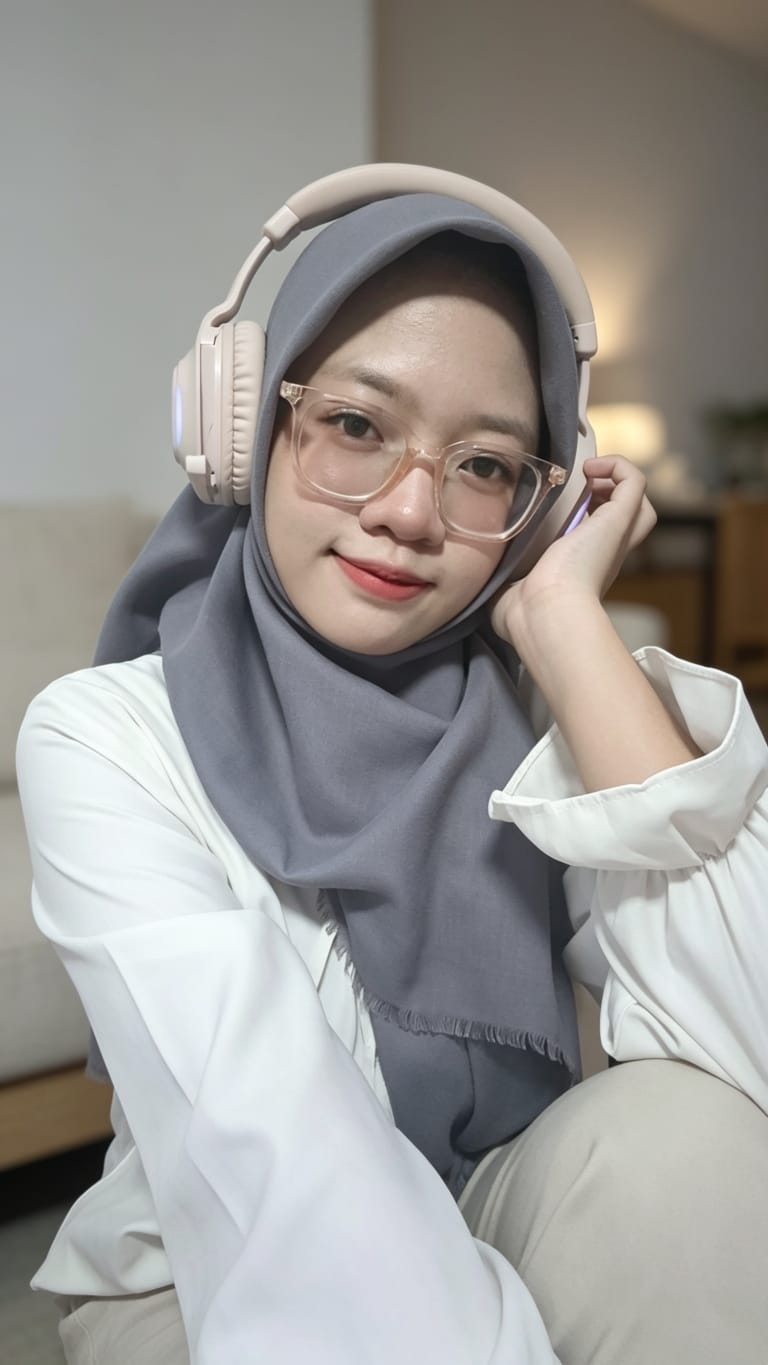
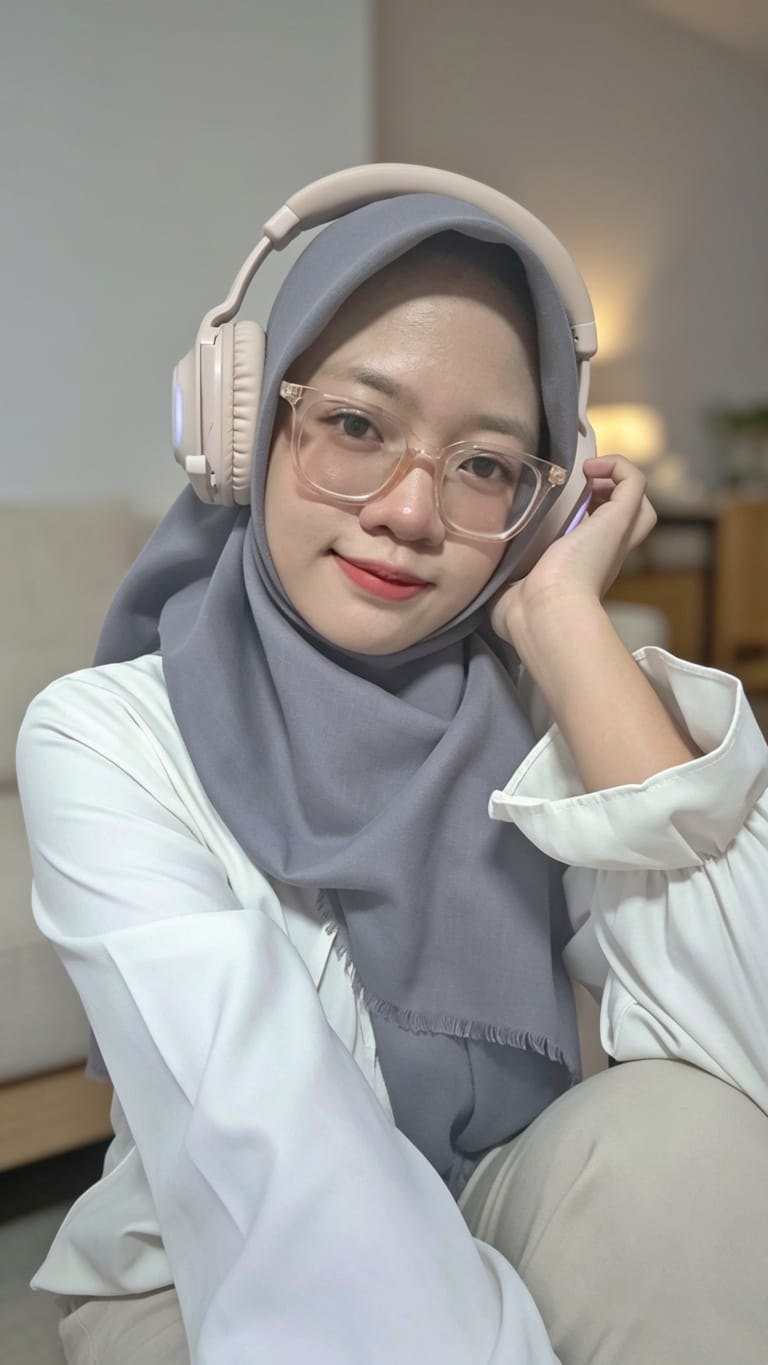
UPDATE NEW PORTO

diff --git a/index.html b/index.html
@@ -87,9 +87,14 @@
                 </div>
 
                 <div class="hero-actions">
-                    <a href="#projects" class="btn btn-primary filter-scroll-btn" data-target-filter="graphic"><i class="fa-solid fa-palette"></i> Portfolio Desain</a>
-                    <a href="#projects" class="btn btn-secondary filter-scroll-btn" data-target-filter="animation"><i class="fa-solid fa-video"></i> Animasi &amp; Videografi</a>
-                    <a href="https://yeflou.github.io/allporto.html" target="_blank" rel="noopener" class="btn btn-outline"><i class="fa-solid fa-image"></i> Portfolio Gambar <i class="fa-solid fa-arrow-up-right-from-square" style="font-size: 0.8rem; margin-left: 4px;"></i></a>
+                    <a href="#projects" class="btn btn-primary filter-scroll-btn" data-target-filter="graphic"><i
+                            class="fa-solid fa-palette"></i> Portfolio Desain</a>
+                    <a href="#projects" class="btn btn-secondary filter-scroll-btn" data-target-filter="animation"><i
+                            class="fa-solid fa-video"></i> Animasi &amp; Videografi</a>
+                    <a href="https://yeflou.github.io/allporto.html" target="_blank" rel="noopener"
+                        class="btn btn-outline"><i class="fa-solid fa-image"></i> Portfolio Gambar <i
+                            class="fa-solid fa-arrow-up-right-from-square"
+                            style="font-size: 0.8rem; margin-left: 4px;"></i></a>
                 </div>
 
                 <div class="hero-cv-action">
@@ -166,7 +171,8 @@
                 </div>
 
                 <div class="projects-grid">
-                    <div class="project-card" data-category="graphic" data-year="2024" data-featured="true" data-order="1">
+                    <div class="project-card" data-category="graphic" data-year="2024" data-featured="true"
+                        data-order="1">
                         <div class="project-img-container">
                             <img src="assets/desainkkn.png" alt="Desain Atribut KKN" class="project-img">
                         </div>
@@ -186,15 +192,16 @@
                                 <span>CorelDRAW</span><span>Photoshop</span>
                             </div>
                             <div class="project-links">
-                                <a href="https://www.Drive.net" class="btn btn-primary btn-sm btn-block-link"
-                                    target="_blank" rel="noopener">
+                                <a href="https://drive.google.com/drive/u/0/folders/1RBhmhu12I0WEW6JnwQndfE5LF_aNPVAr"
+                                    class="btn btn-primary btn-sm btn-block-link" target="_blank" rel="noopener">
                                     <i class="fa-brands fa-Drive"></i> Lihat di Drive
                                 </a>
                             </div>
                         </div>
                     </div>
                     <!-- Proyek: Redraw Logo Kober Mie -->
-                    <div class="project-card" data-category="graphic" data-year="2026" data-featured="true" data-order="3">
+                    <div class="project-card" data-category="graphic" data-year="2026" data-featured="true"
+                        data-order="4">
                         <div class="project-img-container">
                             <span class="featured-badge"><i class="fa-solid fa-star"></i> Top Project</span>
                             <img src="assets/redrawlogokobermie.png" alt="Redraw Logo Kober Mie" class="project-img"
@@ -216,8 +223,8 @@
                                 <span>Illustrator</span>
                             </div>
                             <div class="project-links">
-                                <a href="https://drive.google.com" class="btn btn-primary btn-sm btn-block-link"
-                                    target="_blank" rel="noopener">
+                                <a href="https://drive.google.com/file/d/1Pym50DcKbXOv9iTHVe5xYLA7Iz0MUG5w/view?usp=drive_link"
+                                    class="btn btn-primary btn-sm btn-block-link" target="_blank" rel="noopener">
                                     <i class="fa-brands fa-Drive"></i> Lihat di Drive
                                 </a>
                             </div>
@@ -302,7 +309,7 @@
                                 <span>Adobe Illustrator</span>
                             </div>
                             <div class="project-links">
-                                <a href="https://drive.google.com/file/d/1V2nMCQu51WlD8DUS-PfKj9qU5LyI545K/view?usp=sharing"
+                                <a href="https://drive.google.com/file/d/1V2nMCQu51WlD8DUS-PfKj9qU5LyI545K/view?usp=drive_link"
                                     class="btn btn-primary btn-sm btn-block-link" target="_blank" rel="noopener">
                                     <i class="fa-brands fa-Drive"></i> Lihat di Drive
                                 </a>
@@ -369,7 +376,8 @@
                     </div>
 
                     <!-- Proyek 6: Desain Kemasan Runchy -->
-                    <div class="project-card" data-category="graphic" data-year="2024" data-featured="true" data-order="10">
+                    <div class="project-card" data-category="graphic" data-year="2024" data-featured="true"
+                        data-order="11">
                         <div class="project-img-container">
                             <span class="featured-badge"><i class="fa-solid fa-star"></i> Top Project</span>
                             <img src="assets/desainkemasanrunchy.png" alt="Desain Kemasan Runchy" class="project-img">
@@ -399,7 +407,8 @@
                     </div>
 
                     <!-- Proyek 7: Poster Promosi Es Memel -->
-                    <div class="project-card" data-category="graphic" data-year="2024" data-featured="true" data-order="11">
+                    <div class="project-card" data-category="graphic" data-year="2024" data-featured="true"
+                        data-order="12">
                         <div class="project-img-container">
                             <img src="assets/posteresmemel.png" alt="Poster Promosi Es Memel" class="project-img">
                         </div>
@@ -428,7 +437,8 @@
                     </div>
 
                     <!-- Proyek 8: Desain Kaos &amp; T-Shirt Custom -->
-                    <div class="project-card" data-category="graphic" data-year="2024" data-featured="true" data-order="6">
+                    <div class="project-card" data-category="graphic" data-year="2024" data-featured="true"
+                        data-order="7">
                         <div class="project-img-container">
                             <img src="assets/desaintshirt.png" alt="Desain Kaos &amp; T-Shirt Custom"
                                 class="project-img">
@@ -509,9 +519,9 @@
                                 <span>After Effects</span><span>Illustrator</span>
                             </div>
                             <div class="project-links">
-                                <a href="https://www.Drive.net" class="btn btn-primary btn-sm btn-block-link"
-                                    target="_blank" rel="noopener">
-                                    <i class="fa-brands fa-Drive"></i> Lihat di Drive
+                                <a href="https://youtu.be/gRv8--RGrtg?si=8S8OeEegs4b-iSL_"
+                                    class="btn btn-primary btn-sm btn-block-link" target="_blank" rel="noopener">
+                                    <i class="fa-brands fa-Drive"></i> Lihat di Youtube
                                 </a>
                             </div>
                         </div>
@@ -578,7 +588,8 @@
                     </div>
 
                     <!-- Proyek 13: Desain T-Shirt Custom Vol. 2 -->
-                    <div class="project-card" data-category="graphic" data-year="2024" data-featured="true" data-order="7">
+                    <div class="project-card" data-category="graphic" data-year="2024" data-featured="true"
+                        data-order="8">
                         <div class="project-img-container">
                             <img src="assets/desaintshirt2.png" alt="Desain T-Shirt Custom Vol. 2" class="project-img">
                         </div>
@@ -598,8 +609,8 @@
                                 <span>Illustrator</span><span>CorelDRAW</span>
                             </div>
                             <div class="project-links">
-                                <a href="https://www.Drive.net" class="btn btn-primary btn-sm btn-block-link"
-                                    target="_blank" rel="noopener">
+                                <a href="https://drive.google.com/file/d/1ADFFZV9KNlb87fX75bx1nkdDe8gFTNc4/view?usp=drive_link"
+                                    class="btn btn-primary btn-sm btn-block-link" target="_blank" rel="noopener">
                                     <i class="fa-brands fa-Drive"></i> Lihat di Drive
                                 </a>
                             </div>
@@ -697,7 +708,8 @@
                     </div>
 
                     <!-- Proyek 17: Desain Mug Merchandise -->
-                    <div class="project-card" data-category="graphic" data-year="2024" data-featured="true" data-order="14">
+                    <div class="project-card" data-category="graphic" data-year="2024" data-featured="true"
+                        data-order="14">
                         <div class="project-img-container">
                             <img src="assets/desainmug.png" alt="Desain Mug Merchandise" class="project-img">
                         </div>
@@ -717,8 +729,8 @@
                                 <span>Illustrator</span><span>Photoshop</span>
                             </div>
                             <div class="project-links">
-                                <a href="https://www.Drive.net" class="btn btn-primary btn-sm btn-block-link"
-                                    target="_blank" rel="noopener">
+                                <a href="https://drive.google.com/file/d/1FIb3IXv-8cVQSK6MhRvhW-QZD1gweP5-/view?usp=drive_link"
+                                    class="btn btn-primary btn-sm btn-block-link" target="_blank" rel="noopener">
                                     <i class="fa-brands fa-Drive"></i> Lihat di Drive
                                 </a>
                             </div>
@@ -1101,8 +1113,8 @@
                                 <span>Photoshop</span><span>Illustrator</span>
                             </div>
                             <div class="project-links">
-                                <a href="https://www.Drive.net" class="btn btn-primary btn-sm btn-block-link"
-                                    target="_blank" rel="noopener">
+                                <a href="https://drive.google.com/file/d/1V9e7HAsdLIKtgNKKrxWiNCYd2Vx5mk0t/view?usp=drive_link"
+                                    class="btn btn-primary btn-sm btn-block-link" target="_blank" rel="noopener">
                                     <i class="fa-brands fa-Drive"></i> Lihat di Drive
                                 </a>
                             </div>
@@ -1110,7 +1122,8 @@
                     </div>
 
                     <!-- Proyek 31: Desain Kemasan BCOS -->
-                    <div class="project-card" data-category="graphic" data-year="2025" data-featured="true" data-order="13">
+                    <div class="project-card" data-category="graphic" data-year="2025" data-featured="true"
+                        data-order="13">
                         <div class="project-img-container">
                             <span class="featured-badge"><i class="fa-solid fa-star"></i> Top Project</span>
                             <img src="assets/packagingbcos.png" alt="Desain Kemasan BCOS" class="project-img">
@@ -1131,8 +1144,8 @@
                                 <span>Illustrator</span><span>CorelDRAW</span>
                             </div>
                             <div class="project-links">
-                                <a href="https://www.Drive.net" class="btn btn-primary btn-sm btn-block-link"
-                                    target="_blank" rel="noopener">
+                                <a href="https://drive.google.com/file/d/15d9b-7C-6jW9QaaiZkD_oI5-h2XpCvbZ/view?usp=drive_link"
+                                    class="btn btn-primary btn-sm btn-block-link" target="_blank" rel="noopener">
                                     <i class="fa-brands fa-Drive"></i> Lihat di Drive
                                 </a>
                             </div>
@@ -1140,7 +1153,8 @@
                     </div>
 
                     <!-- Proyek 32: Poster Promosi BCOS -->
-                    <div class="project-card" data-category="graphic" data-year="2025" data-featured="true" data-order="4">
+                    <div class="project-card" data-category="graphic" data-year="2025" data-featured="true"
+                        data-order="5">
                         <div class="project-img-container">
                             <span class="featured-badge"><i class="fa-solid fa-star"></i> Top Project</span>
                             <img src="assets/posterbcos.png" alt="Poster Promosi BCOS" class="project-img">
@@ -1161,8 +1175,8 @@
                                 <span>Photoshop</span><span>Illustrator</span>
                             </div>
                             <div class="project-links">
-                                <a href="https://www.Drive.net" class="btn btn-primary btn-sm btn-block-link"
-                                    target="_blank" rel="noopener">
+                                <a href="https://drive.google.com/file/d/1dj25va6sIrhzYDCg1ADpspS1Ozp7vgHT/view?usp=sharing"
+                                    class="btn btn-primary btn-sm btn-block-link" target="_blank" rel="noopener">
                                     <i class="fa-brands fa-Drive"></i> Lihat di Drive
                                 </a>
                             </div>
@@ -1193,8 +1207,7 @@
                                 <span>Figma</span><span>Wireframing</span>
                             </div>
                             <div class="project-links">
-                                <a href="https://drive.google.com" class="btn btn-primary btn-sm btn-block-link"
-                                    target="_blank" rel="noopener">
+                                <a href="" class="btn btn-primary btn-sm btn-block-link" target="_blank" rel="noopener">
                                     <i class="fa-solid fa-link"></i> Lihat Sketsa
                                 </a>
                             </div>
@@ -1202,7 +1215,7 @@
                     </div>
 
                     <!-- Proyek 35: Desain UI Client Portal -->
-                    <div class="project-card" data-category="uiux" data-year="2026" data-featured="true" data-order="5">
+                    <div class="project-card" data-category="uiux" data-year="2026" data-featured="true" data-order="6">
                         <div class="project-img-container">
                             <span class="featured-badge"><i class="fa-solid fa-star"></i> Top Project</span>
                             <img src="assets/uiclient.png" alt="Desain UI Client Portal" class="project-img">
@@ -1223,8 +1236,8 @@
                                 <span>Figma</span><span>UI Design</span>
                             </div>
                             <div class="project-links">
-                                <a href="https://drive.google.com" class="btn btn-primary btn-sm btn-block-link"
-                                    target="_blank" rel="noopener">
+                                <a href="https://www.figma.com/design/riBFmjoEGSAkan39MzHpDt/UI-Client-Porto?t=J0UI2xX5kA122FK0-0"
+                                    class="btn btn-primary btn-sm btn-block-link" target="_blank" rel="noopener">
                                     <i class="fa-solid fa-link"></i> Lihat Detail
                                 </a>
                             </div>
@@ -1410,7 +1423,8 @@
                     </div>
 
                     <!-- Proyek 42: Desain Iklan Sirup Pisang -->
-                    <div class="project-card" data-category="graphic" data-year="2024" data-featured="true" data-order="8">
+                    <div class="project-card" data-category="graphic" data-year="2024" data-featured="true"
+                        data-order="9">
                         <div class="project-img-container">
                             <span class="featured-badge"><i class="fa-solid fa-star"></i> Top Project</span>
                             <img src="assets/iklansiruppisang.png" alt="Desain Iklan Sirup Pisang" class="project-img">
@@ -1423,7 +1437,7 @@
                             <h3 class="project-title">Desain Iklan Sirup Pisang</h3>
                             <div class="project-role-info"
                                 style="margin-bottom: 12px; font-size: 0.9rem; color: var(--text-muted);">
-                                <strong>Role:</strong> Graphic Designer
+                                <strong>Role:</strong> Animator, Voice Over
                             </div>
                             <p class="project-desc">Pembuatan visual poster promosi dan materi branding digital untuk
                                 produk Sirup Pisang tradisional.</p>
@@ -1431,16 +1445,17 @@
                                 <span>Photoshop</span><span>Illustrator</span>
                             </div>
                             <div class="project-links">
-                                <a href="https://www.Drive.net" class="btn btn-primary btn-sm btn-block-link"
-                                    target="_blank" rel="noopener">
-                                    <i class="fa-brands fa-Drive"></i> Lihat di Drive
+                                <a href="https://youtu.be/eVeZNkdIU4g?si=N_RQuFZ6JM4mrNa6"
+                                    class="btn btn-primary btn-sm btn-block-link" target="_blank" rel="noopener">
+                                    <i class="fa-brands fa-youtube"></i> Lihat di youtube
                                 </a>
                             </div>
                         </div>
                     </div>
 
                     <!-- Proyek 43: KKN Desa Cerme Profil Desa -->
-                    <div class="project-card" data-category="graphic" data-year="2024" data-featured="true" data-order="9">
+                    <div class="project-card" data-category="graphic" data-year="2024" data-featured="true"
+                        data-order="10">
                         <div class="project-img-container">
                             <span class="featured-badge"><i class="fa-solid fa-star"></i> Top Project</span>
                             <img src="assets/kkndesacermeprofildesa.png" alt="KKN Desa Cerme Profil Desa"
@@ -1454,7 +1469,7 @@
                             <h3 class="project-title">KKN Desa Cerme Profil Desa</h3>
                             <div class="project-role-info"
                                 style="margin-bottom: 12px; font-size: 0.9rem; color: var(--text-muted);">
-                                <strong>Role:</strong> Graphic Designer & Media
+                                <strong>Role:</strong> Video Editor & Voice Over
                             </div>
                             <p class="project-desc">Desain buku profil desa dan media cetak publikasi program kerja KKN
                                 mahasiswa di Desa Cerme.</p>
@@ -1462,8 +1477,8 @@
                                 <span>Illustrator</span><span>Photoshop</span>
                             </div>
                             <div class="project-links">
-                                <a href="https://www.Drive.net" class="btn btn-primary btn-sm btn-block-link"
-                                    target="_blank" rel="noopener">
+                                <a href="https://youtu.be/iFvc8X8XO_w?si=Oa3hexcejYgaqXe2"
+                                    class="btn btn-primary btn-sm btn-block-link" target="_blank" rel="noopener">
                                     <i class="fa-brands fa-Drive"></i> Lihat di Drive
                                 </a>
                             </div>
@@ -1492,8 +1507,8 @@
                                 <span>Blender</span><span>3D Animation</span>
                             </div>
                             <div class="project-links">
-                                <a href="https://www.Drive.net" class="btn btn-primary btn-sm btn-block-link"
-                                    target="_blank" rel="noopener">
+                                <a href="https://drive.google.com/file/d/1vrOeeG74mOCufDy5C7q4daWcRFdnHiRC/view?usp=drive_link"
+                                    class="btn btn-primary btn-sm btn-block-link" target="_blank" rel="noopener">
                                     <i class="fa-brands fa-Drive"></i> Lihat di Drive
                                 </a>
                             </div>
@@ -1589,7 +1604,8 @@
                     </div>
 
                     <!-- Proyek 48: Instagram Feed KKN Desa Cerme -->
-                    <div class="project-card" data-category="graphic" data-year="2024" data-featured="true" data-order="12">
+                    <div class="project-card" data-category="graphic" data-year="2024" data-featured="true"
+                        data-order="3">
                         <div class="project-img-container">
                             <span class="featured-badge"><i class="fa-solid fa-star"></i> Top Project</span>
                             <img src="assets/igfeedkkndesacerme.png" alt="Instagram Feed KKN Desa Cerme"
@@ -1611,16 +1627,17 @@
                                 <span>Canva</span><span>Illustrator</span>
                             </div>
                             <div class="project-links">
-                                <a href="https://www.Drive.net" class="btn btn-primary btn-sm btn-block-link"
-                                    target="_blank" rel="noopener">
-                                    <i class="fa-brands fa-Drive"></i> Lihat di Drive
+                                <a href="https://www.instagram.com/kknt.udb.cerme?igsh=MW5nN3N6anl6eTJhbg=="
+                                    class="btn btn-primary btn-sm btn-block-link" target="_blank" rel="noopener">
+                                    <i class="fa-brands fa-Drive"></i> Lihat di iNSTAGRAM
                                 </a>
                             </div>
                         </div>
                     </div>
 
                     <!-- Proyek 49: Instagram Feed Six Pro -->
-                    <div class="project-card" data-category="graphic" data-year="2025" data-featured="true" data-order="2">
+                    <div class="project-card" data-category="graphic" data-year="2025" data-featured="true"
+                        data-order="2">
                         <div class="project-img-container">
                             <span class="featured-badge"><i class="fa-solid fa-star"></i> Top Project</span>
                             <img src="assets/igfeedsixpro.png" alt="Instagram Feed Six Pro" class="project-img">
@@ -1641,9 +1658,9 @@
                                 <span>Photoshop</span><span>Illustrator</span>
                             </div>
                             <div class="project-links">
-                                <a href="https://www.Drive.net" class="btn btn-primary btn-sm btn-block-link"
-                                    target="_blank" rel="noopener">
-                                    <i class="fa-brands fa-Drive"></i> Lihat di Drive
+                                <a href="https://www.instagram.com/si.sixpro_?igsh=MnhnOGQya3cwNWd5"
+                                    class="btn btn-primary btn-sm btn-block-link" target="_blank" rel="noopener">
+                                    <i class="fa-brands fa-Drive"></i> Lihat di Isntagram
                                 </a>
                             </div>
                         </div>
@@ -1991,8 +2008,8 @@
                                 Unity</span>
                         </div>
                         <div class="tech-item-skill">
-                            <span class="tech-label-skill">Web &amp; Mobile</span>
-                            <span class="tech-tags-skill">HTML • CSS • JavaScript • PHP • Flutter • CodeIgniter</span>
+                            <span class="tech-label-skill">Voice Over &amp; Audio</span>
+                            <span class="tech-tags-skill">Voice Acting • Narration • Audio Recording • Adobe Audition • Audacity</span>
                         </div>
                         <div class="tech-item-skill">
                             <span class="tech-label-skill">Backend &amp; DB</span>